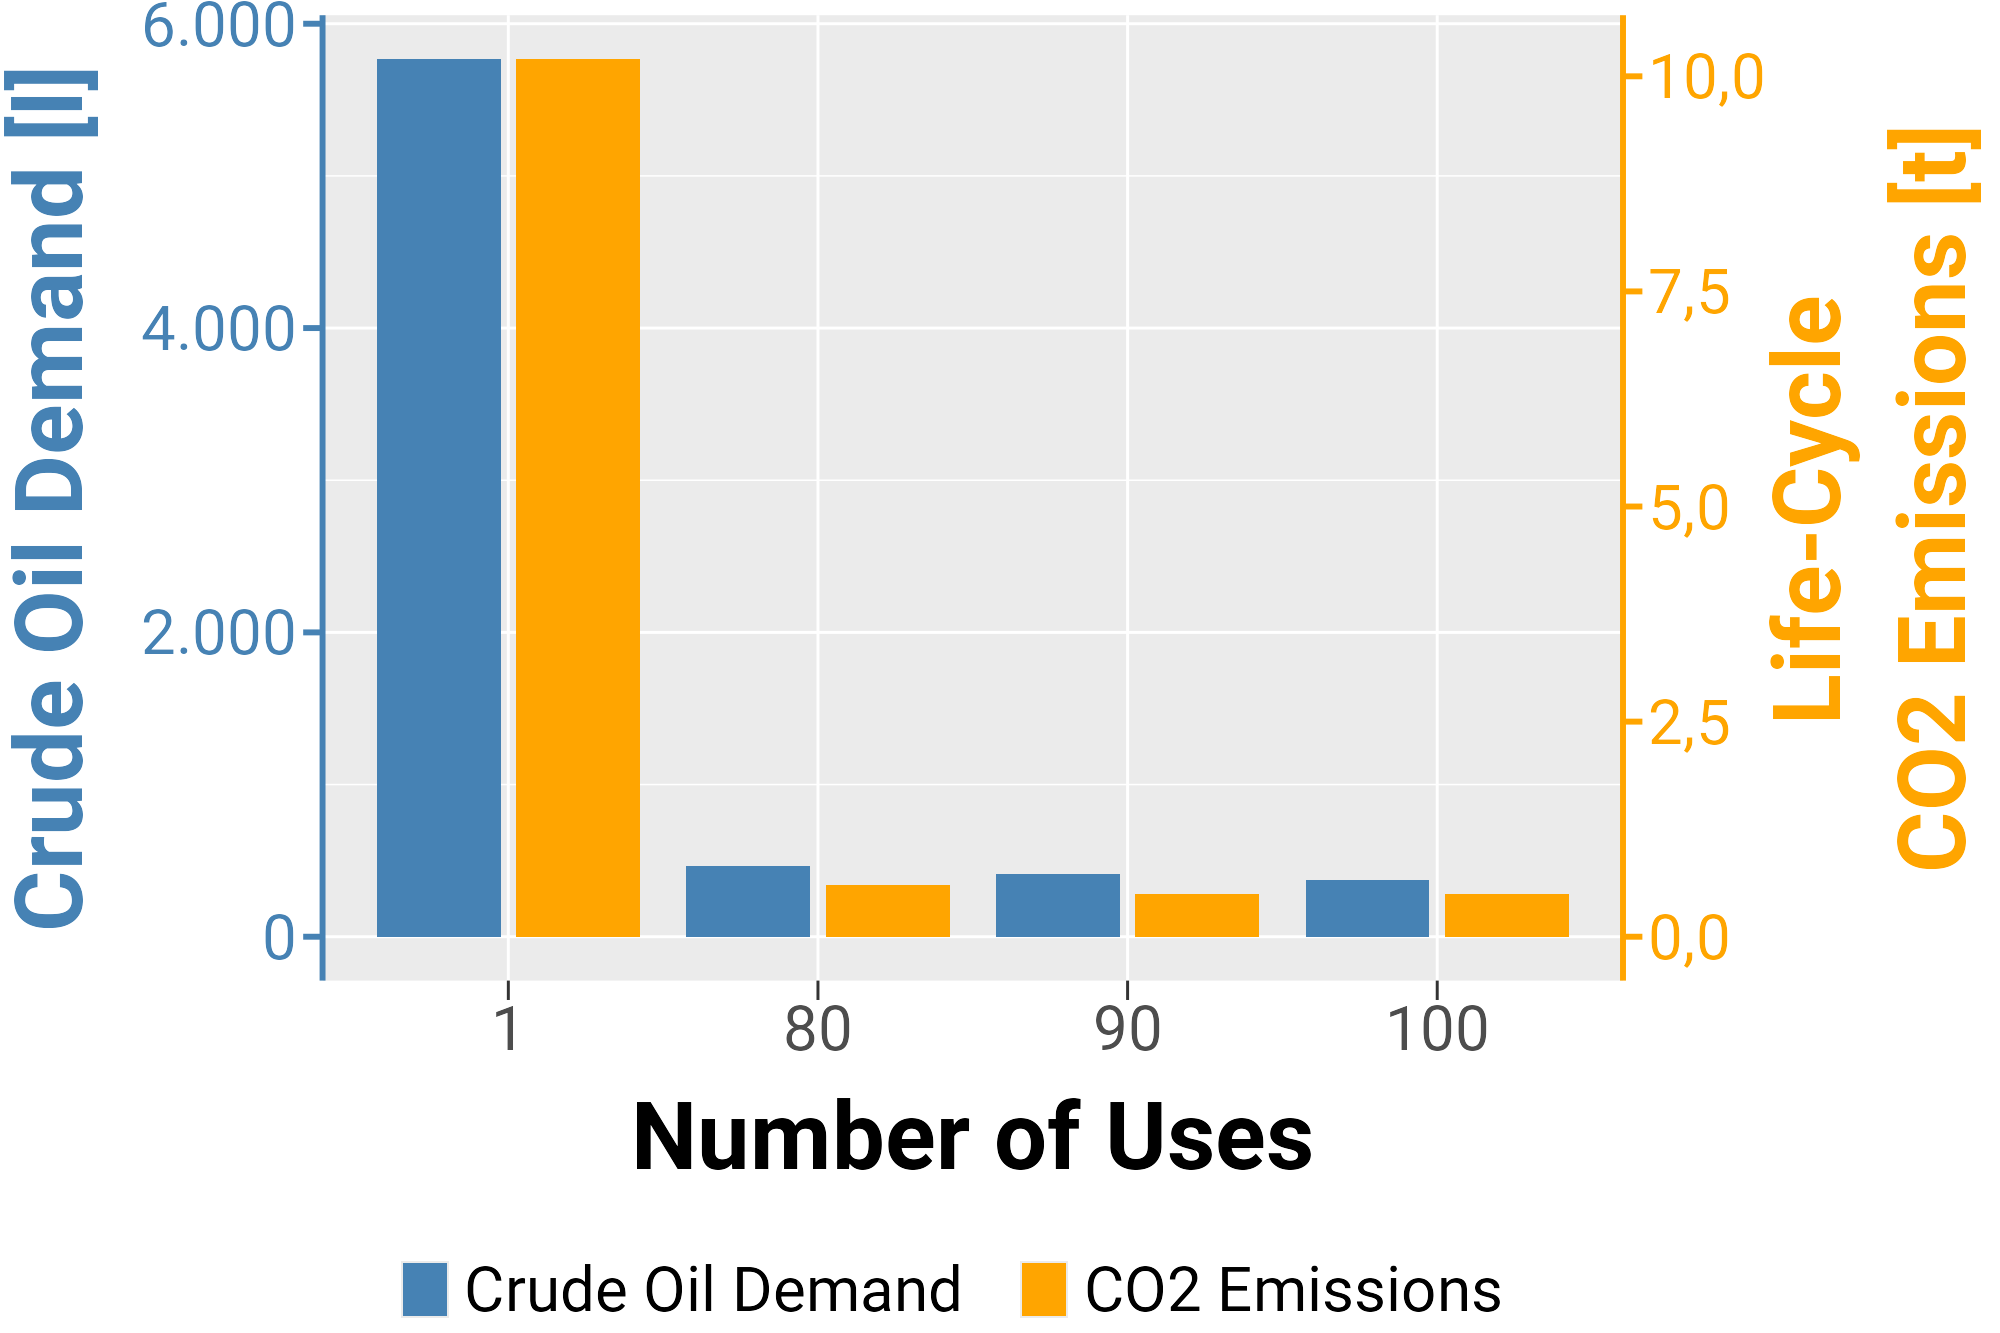
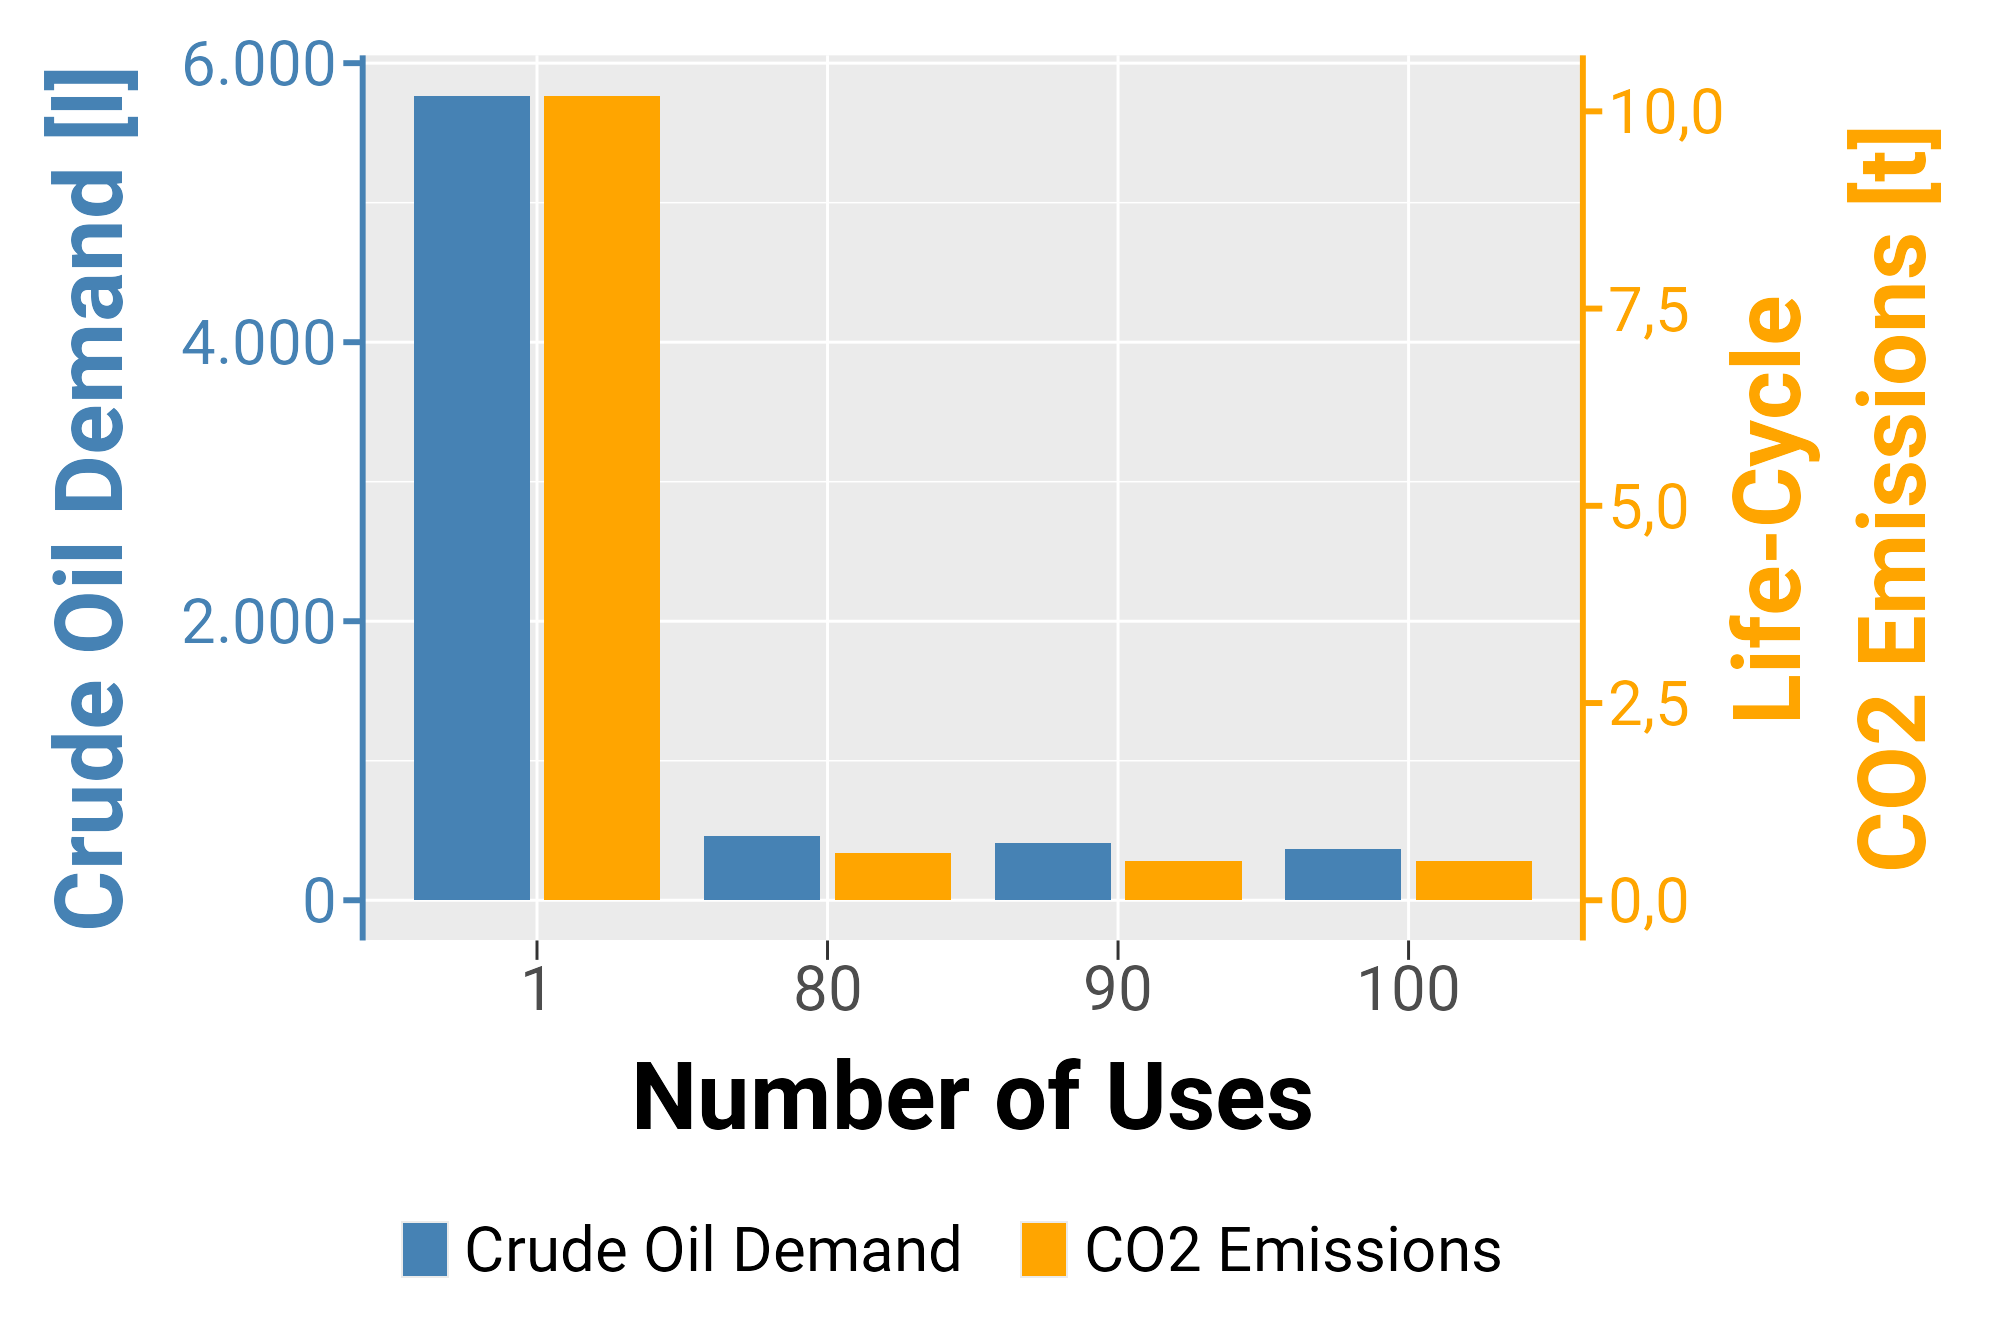
Update Post cups4climate

diff --git a/_posts/2025-08-12-cups4climate.md b/_posts/2025-08-12-cups4climate.md
@@ -1,0 +1,27 @@
+---
+layout: post
+title: "So ... what exactly is sustainability management?"
+author: "KMH"
+categories: journal
+tags: [sustianability, event]
+image: crude_co2_v1.png
+---
+
+Midst of August is probably the perfect time to watch me once again heroically nailing jelly to a wall by answering the question “So… what exactly is sustainability management?”  
+  
+A great question I get asked a lot - and for good reason: Sustainability management can sound really abstract - until you see it in action. And with summer in full swing and festivals everywhere, let‘s go for an answer that comes with music, street food, and reusable cups 🎪☀🎵  
+  
+Last semester, students from our Sustainability Management bachelor’s programme teamed up with waste management company [Brantner green solutions](https://www.linkedin.com/company/brantner-green-solutions/) to assess the effects from switching from disposable to reusable cups at festivals. We did some math for a fictional event lasting 11 days and hosting around 120,000 visitors, and it seems like using reusable cups could be a smart move:  
+  
+* Saving up to 170,000–220,000 cups (depending on consumption assumptions);  
+* Saving about 5,000 litres of crude oil in cup production - a 92 to 94% reduction in oil use;  
+* Cutting Life-Cycle CO2 cup emissions by 95%, which means saving enough CO2 to allow an electric car to travel over 100.000+ km⚡  
+  
+📊 This figure shows how crude oil demand and Life-Cycle CO2 emissions drop dramatically when cups are used multiple times at festivals:
+
+![Crude oil demand and co2 emissions](/assets/img/crude_co2_v1.png)
+  
+👉 This rough estimate brings us back to the initial question: What does sustainability management do? It guides companies and organisations in making greener and fairer choices by combining data, practical solutions, and strategic thinking. From identifying impactful measures to translating numbers into decisions, sustainability management turns ambition into action. Ensuring that change is both measurable and meaningful.  
+  
+And in case of Green Events, the benefits go far beyond the presented numbers: they reduce waste, inspire visitors, and show that celebrating and protecting the planet can go hand in hand 🌿🌈  
+By the way: I hear the [Wachauer Volksfest](https://www.wachauervolksfest.at/) (= #EventPick) is coming up 😉. Perfect opportunity to raise a reusable cup! ♻ 
